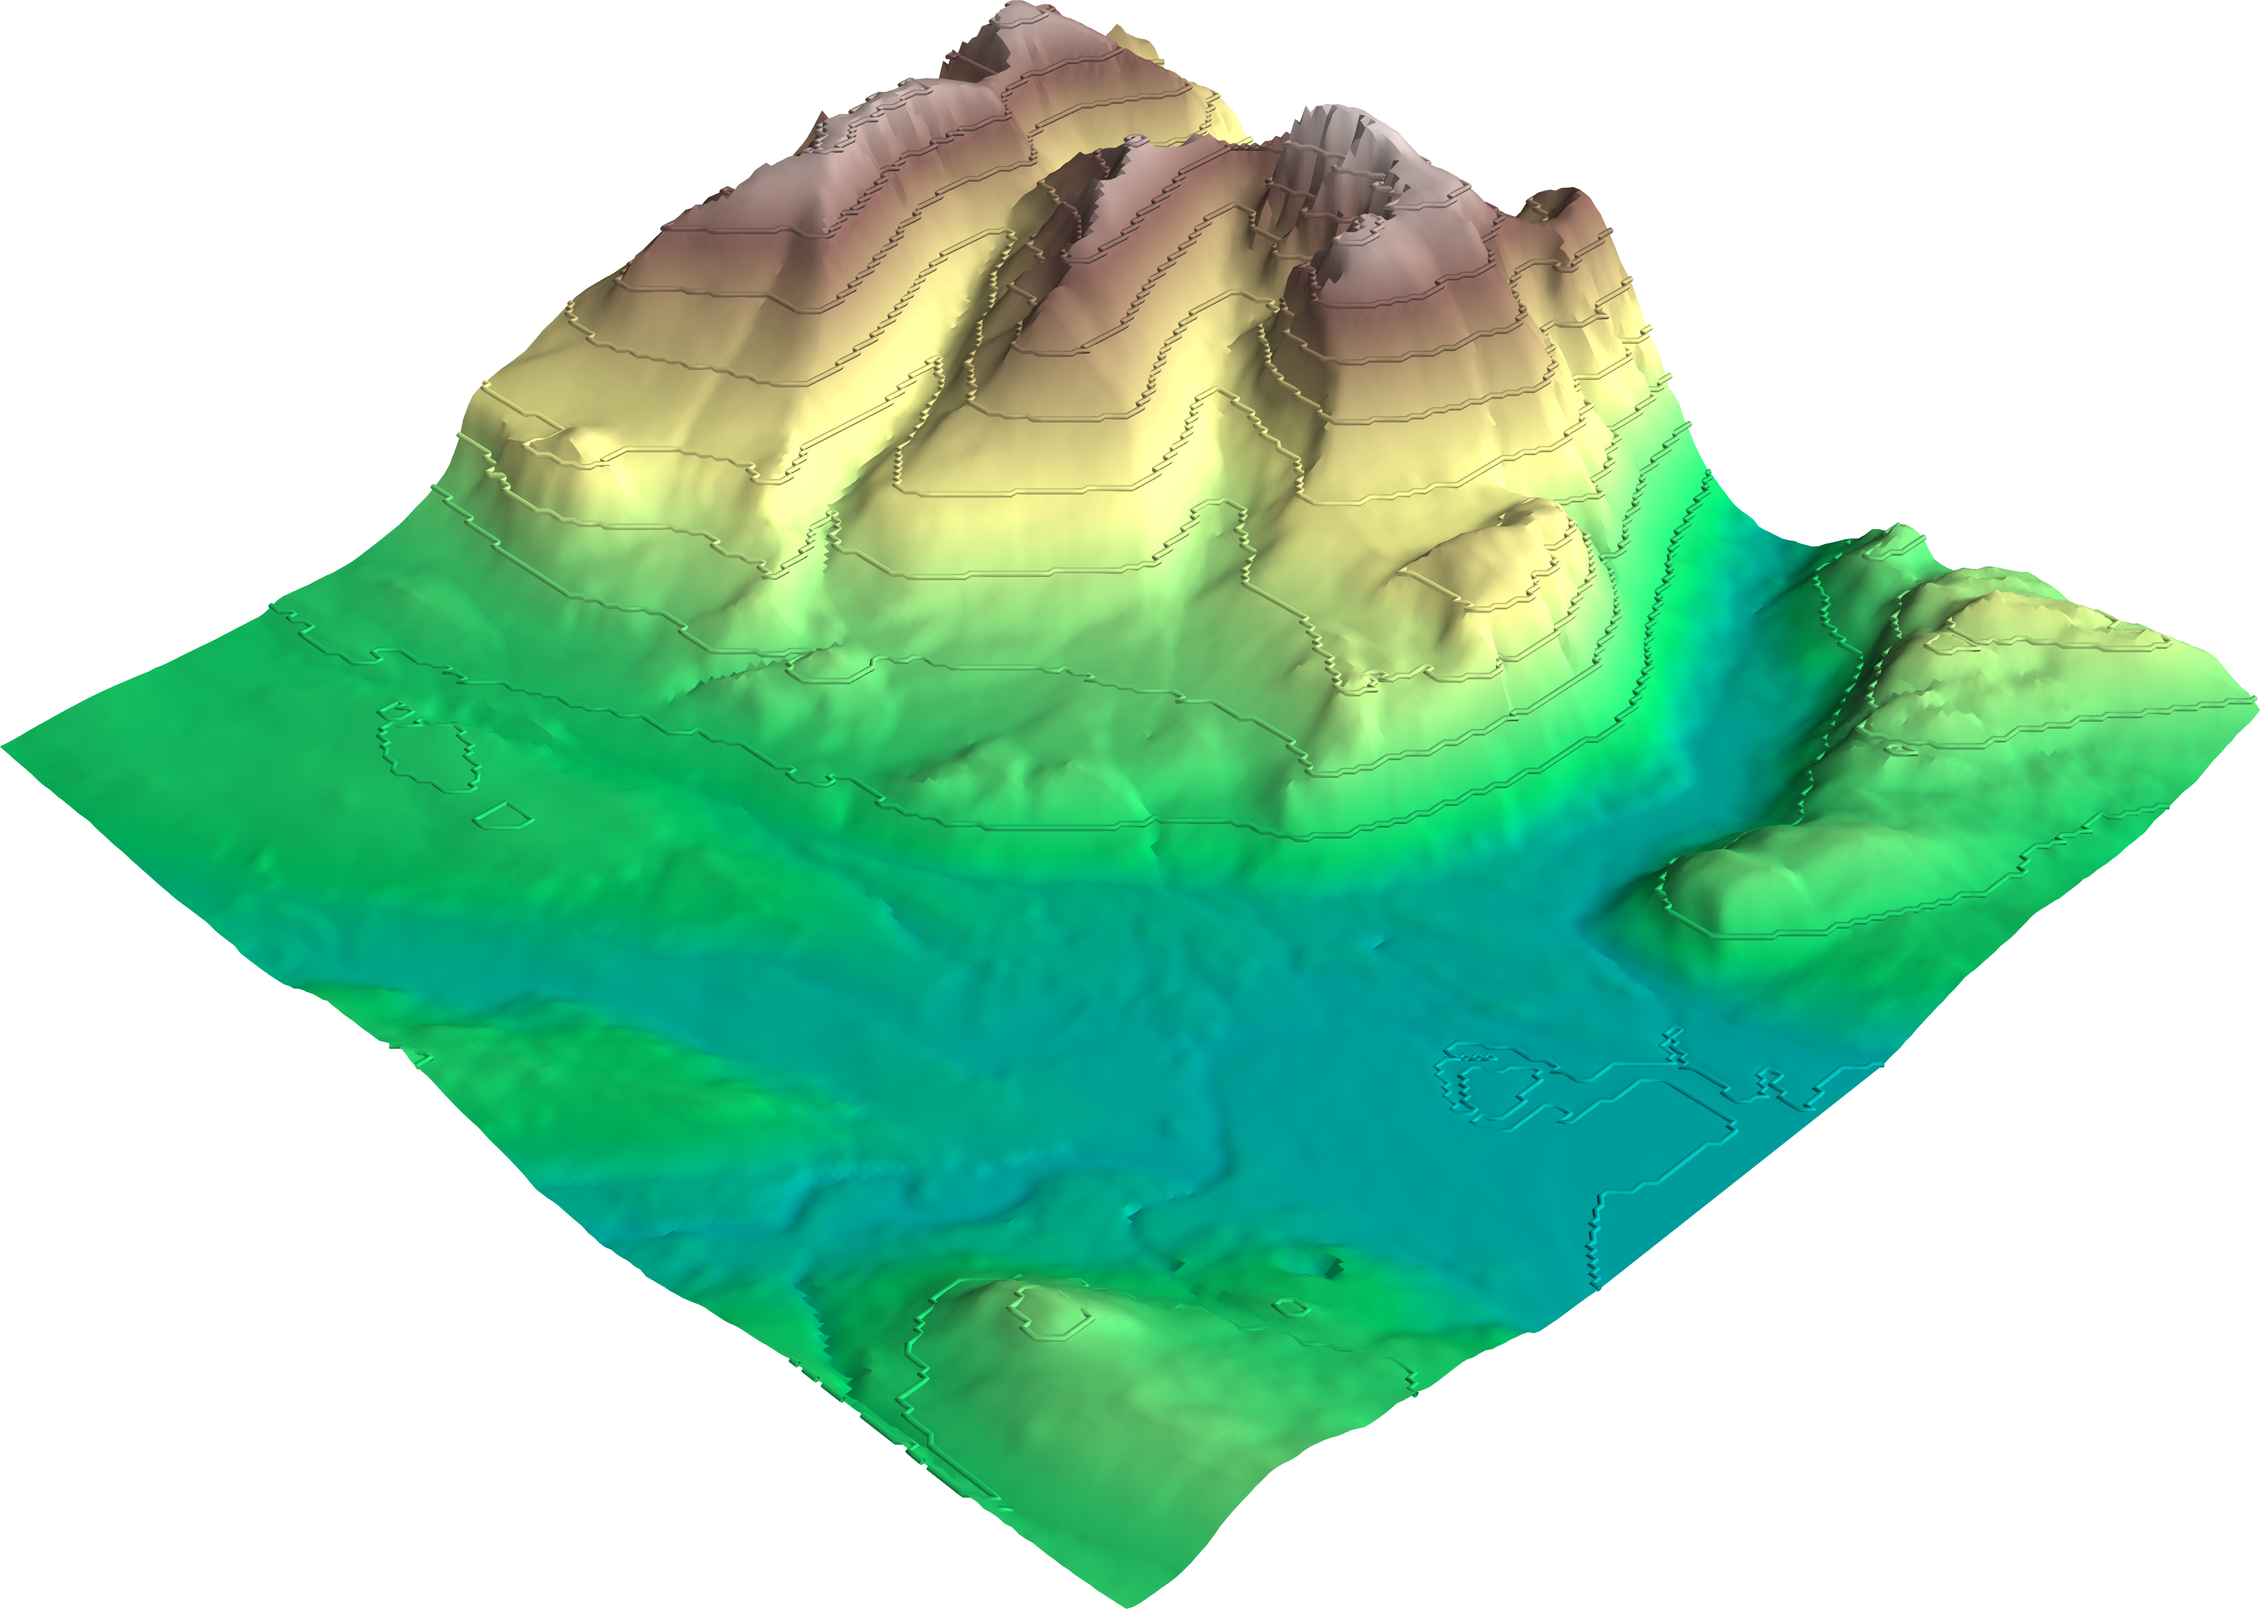
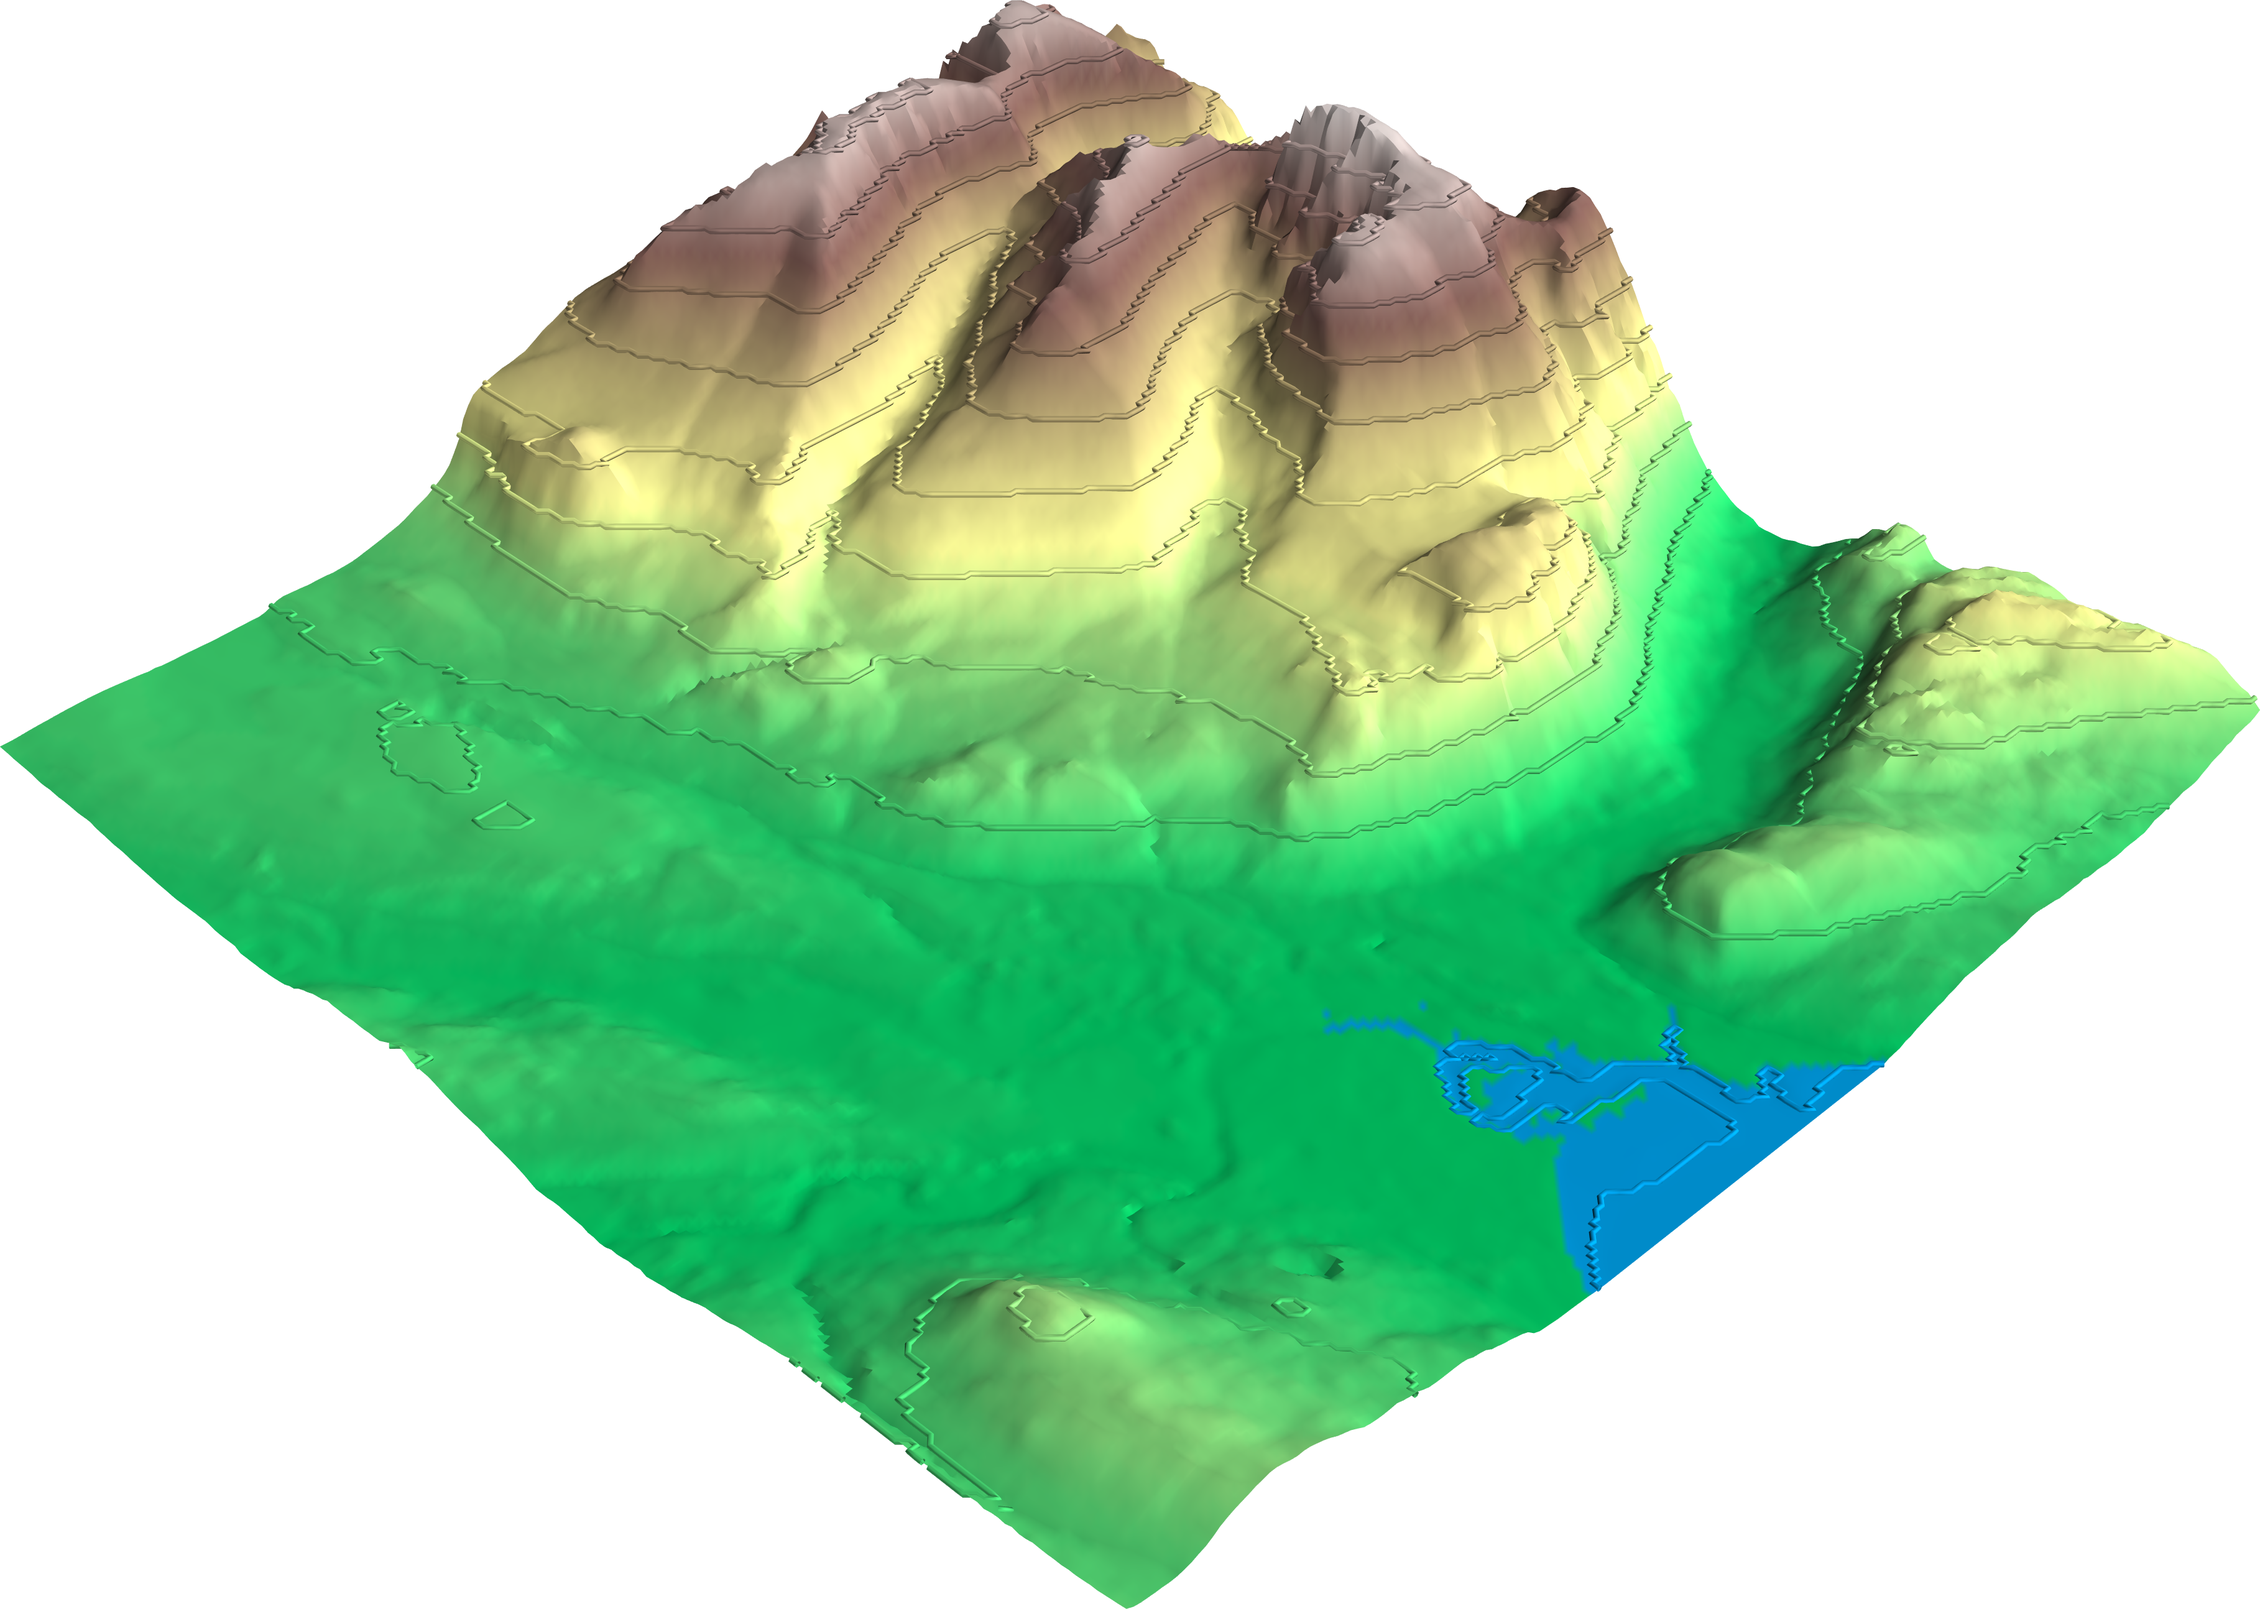
DAY 1 #1
Tried to match 2D matplotlib colormaps to 3D mayavi color lookup tables

diff --git a/discretize_showcase.py b/discretize_showcase.py
@@ -8,6 +8,7 @@ from scipy import interpolate
 from mayavi import mlab
 
 from functions_2D import interpolate_discretized_data, plot_contours, isolate_contour_datapoints
+from helpers.colors import DEMScalarMappable
 
 """
 This script creates 3D graphics to showcase data discretization
@@ -37,22 +38,12 @@ levels = np.arange(minimum, maximum + 1e-10, height_levels, dtype=int)
 contour_levels = levels
 
 # Set up Colormaps
-cmap = plt.get_cmap("terrain")
-vmin = -0.25 * maximum * 1.1
-vmax = maximum * 1.1
-norm = Normalize(vmin, vmax)  # Leave extra 10% for interpolation overshoot
-colors = ScalarMappable(norm=norm, cmap=cmap)
-contour_colors = ScalarMappable(
-    norm=BoundaryNorm(
-        contour_levels,
-        contour_levels.size - 1,
-    ),
-    cmap=LinearSegmentedColormap.from_list("", colors.to_rgba(contour_levels[:-1]), N=contour_levels.size - 1),
-)
-discretized_lut = contour_colors.to_rgba(np.linspace(vmin, vmax, 255)) * 255
+vmin = minimum / 1.1 if minimum > 0 else minimum * 1.1  # Leave extra 10% for interpolation overshoot
+vmax = maximum * 1.1  # Leave extra 10% for interpolation overshoot
+colors = DEMScalarMappable(vmin, vmax)
 
 # Discretize Data
-discretized_datagrid = height_levels * np.floor(datagrid / height_levels)
+discretized_datagrid = height_levels * (np.floor(datagrid / height_levels))
 
 mlab.options.offscreen = True
 # 1
@@ -60,7 +51,8 @@ mlab.figure(bgcolor=(1, 1, 1))
 surf = mlab.surf(
     y, x, np.rot90(discretized_datagrid.T), warp_scale=warp_scale, colormap="terrain", vmin=vmin, vmax=vmax
 )
-surf.module_manager.scalar_lut_manager.lut.table = discretized_lut
+# Using colormap for contours is a dirty fix for mayavi using weird lookup table values
+surf.module_manager.scalar_lut_manager.lut.table = colors.segmented_lut(levels, kind="middle")
 mlab.draw()
 mlab.gcf().scene._lift()
 mlab.view(azimuth=azimuth, distance="auto")
@@ -69,7 +61,7 @@ mlab.savefig(f"images/discretize/Discretized.png", magnification=10)
 # 2
 mlab.figure(bgcolor=(1, 1, 1))
 surf = mlab.surf(y, x, np.rot90(datagrid.T), warp_scale=warp_scale, colormap="terrain", vmin=vmin, vmax=vmax)
-surf.module_manager.scalar_lut_manager.lut.table = discretized_lut
+surf.module_manager.scalar_lut_manager.lut.table = colors.segmented_lut(levels, kind="bottom")
 mlab.draw()
 mlab.gcf().scene._lift()
 mlab.view(azimuth=azimuth, distance="auto")
@@ -78,9 +70,10 @@ mlab.savefig(f"images/discretize/Color_Graded.png", magnification=10)
 # 3
 mlab.figure(bgcolor=(1, 1, 1))
 surf = mlab.surf(y, x, np.rot90(datagrid.T), warp_scale=warp_scale, colormap="terrain", vmin=vmin, vmax=vmax)
+surf.module_manager.scalar_lut_manager.lut.table = colors.lut
 contours = isolate_contour_datapoints(x, y, np.rot90(datagrid, 3), levels=levels, return_separate_contours=True)
 for contour in contours:
-    mlab.plot3d(
+    obj = mlab.plot3d(
         contour[:, 0],
         contour[:, 1],
         contour[:, 2] * warp_scale,
@@ -90,6 +83,7 @@ for contour in contours:
         vmin=vmin,
         vmax=vmax,
     )
+    obj.module_manager.scalar_lut_manager.lut.table = colors.lut
 """
 Contour alternative:
 
@@ -108,7 +102,6 @@ surf = mlab.contour_surf(
 mlab.gcf().scene._lift()
 mlab.view(azimuth=azimuth, distance="auto")
 mlab.savefig(f"images/discretize/Accurate.png", magnification=10)
-
 # Use ImageMagick to remove background from images and crop out fully transparent region.
 for image in os.listdir(f"images/discretize/"):
     os.system(f"convert images/discretize/{image} -transparent white -trim +repage images/discretize/{image}")

diff --git a/helpers/colors.py b/helpers/colors.py
@@ -1,0 +1,69 @@
+from matplotlib import pyplot as plt
+import numpy as np
+from matplotlib.colors import LinearSegmentedColormap, ListedColormap, TwoSlopeNorm, BoundaryNorm, Normalize
+from matplotlib.cm import ScalarMappable
+
+
+class DEMScalarMappable(ScalarMappable):
+    colors_sea = plt.cm.terrain(np.linspace(0, 0.17, 256))
+    colors_land = plt.cm.terrain(np.linspace(0.25, 1, 256))
+    all_colors = np.vstack((colors_sea, colors_land))
+
+    def __init__(self, vmin, vmax):
+        if vmin > 0:
+            norm = Normalize(vmin, vmax, clip=True)
+            cmap = LinearSegmentedColormap.from_list("terrain_map", self.colors_land)
+        elif vmin == 0:
+            norm = Normalize(vmin, vmax, clip=True)
+            cmap = LinearSegmentedColormap.from_list(
+                "terrain_map", np.vstack((self.colors_sea[-1], self.colors_land[1:]))
+            )
+        elif vmax <= 0:
+            norm = Normalize(vmin, vmax, clip=True)
+            cmap = LinearSegmentedColormap.from_list("terrain_map", self.colors_sea)
+        else:
+            cmap = LinearSegmentedColormap.from_list("terrain_map", self.all_colors)
+            norm = TwoSlopeNorm(vmin=vmin, vcenter=0, vmax=vmax)
+        super().__init__(norm, cmap)
+
+    def segmented(self, bin_bounds, kind):
+        if kind == "bottom":
+            norm = BoundaryNorm(bin_bounds, bin_bounds.size - 1, clip=True)
+            cmap = LinearSegmentedColormap.from_list(
+                "terrain_map_segmented", self.to_rgba(bin_bounds[:-1]), N=bin_bounds.size - 1
+            )
+            return ScalarMappable(norm, cmap)
+        elif kind == "middle":
+            norm = BoundaryNorm(
+                [
+                    1.5 * bin_bounds[0] - 0.5 * bin_bounds[1],
+                    *(bin_bounds[0:-1] + bin_bounds[1:]) / 2,
+                    1.5 * bin_bounds[-1] - 0.5 * bin_bounds[-2],
+                ],
+                bin_bounds.size,
+            )
+            cmap = LinearSegmentedColormap.from_list(
+                "terrain_map_segmented", self.to_rgba(bin_bounds), N=bin_bounds.size
+            )
+            return ScalarMappable(norm, cmap)
+        elif kind == "top":
+            norm = BoundaryNorm(bin_bounds, bin_bounds.size - 1, clip=True)
+            cmap = LinearSegmentedColormap.from_list(
+                "terrain_map_segmented", self.to_rgba(bin_bounds[1:]), N=bin_bounds.size - 1
+            )
+            return ScalarMappable(norm, cmap)
+        else:
+            raise TypeError("Type can only be one of 'bottom', 'middle' or 'top'.")
+
+    @property
+    def lut(self):
+        return self.__get_lut(self)
+
+    def segmented_lut(self, bin_bounds, kind):
+        return self.__get_lut(self.segmented(bin_bounds, kind))
+
+    @staticmethod
+    def __get_lut(scalarmappable: ScalarMappable):
+        return (
+            scalarmappable.to_rgba(np.linspace(scalarmappable.get_clim()[0], scalarmappable.get_clim()[1], 256)) * 255
+        )
